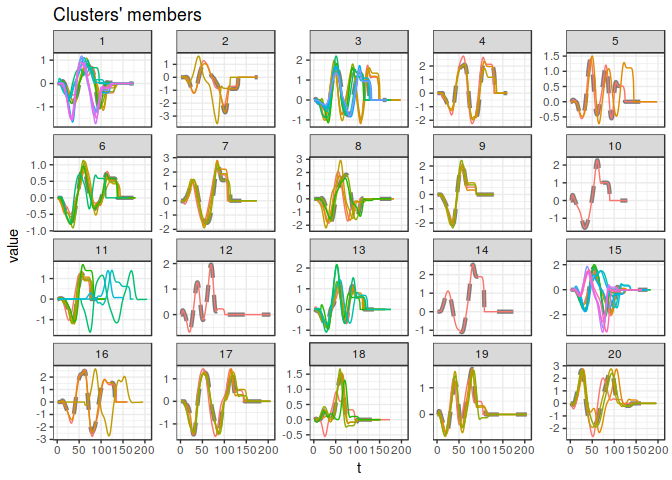
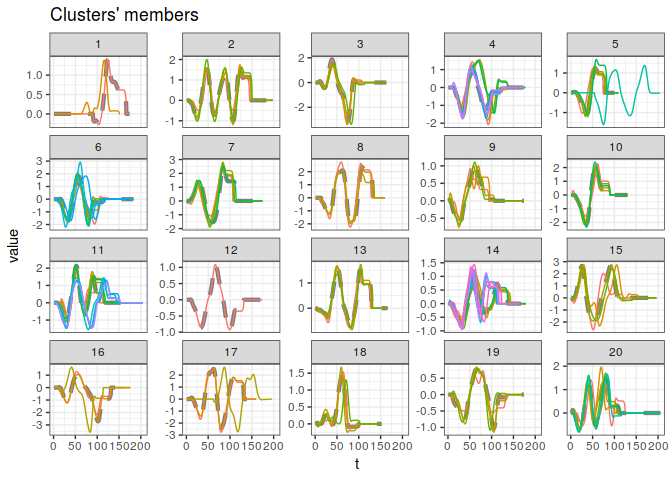
Re-knit README
Previous variant was deprecated.

Changed region(s): [[0.0312, 0.0, 1.0, 0.9688]]

diff --git a/README.md b/README.md
@@ -1,14 +1,14 @@
 <!-- README.md is generated from README.Rmd. Please edit that file -->
+
 [![CRAN\_Status\_Badge](http://www.r-pkg.org/badges/version/dtwclust)](https://cran.r-project.org/package=dtwclust)
 [![Travis-CI Build
 Status](https://travis-ci.org/asardaes/dtwclust.svg?branch=master)](https://travis-ci.org/asardaes/dtwclust)
 [![AppVeyor Build
 Status](https://ci.appveyor.com/api/projects/status/github/asardaes/dtwclust?branch=master&svg=true)](https://ci.appveyor.com/project/asardaes/dtwclust)
 [![codecov](https://codecov.io/gh/asardaes/dtwclust/branch/master/graph/badge.svg)](https://codecov.io/gh/asardaes/dtwclust)
-[![Downloads](http://cranlogs.r-pkg.org/badges/dtwclust)](http://cranlogs.r-pkg.org/badges/dtwclust)
+<http://cranlogs.r-pkg.org/badges/dtwclust>
 
-Time Series Clustering Along with Optimizations for the Dynamic Time Warping (DTW) Distance
-===========================================================================================
+# Time Series Clustering Along with Optimizations for the Dynamic Time Warping (DTW) Distance
 
 Time series clustering with a wide variety of strategies and a series of
 optimizations specific to the Dynamic Time Warping (DTW) distance and
@@ -27,39 +27,37 @@ DTW.
 
 For more information:
 
--   [Vignette with
+  - [Vignette with
     theory](https://cran.r-project.org/web/packages/dtwclust/vignettes/dtwclust.pdf)
     (with examples in the appendices)
--   [Timing
+  - [Timing
     experiments](https://cran.r-project.org/web/packages/dtwclust/vignettes/timing-experiments.html)
--   [Parallelization
+  - [Parallelization
     considerations](https://cran.r-project.org/web/packages/dtwclust/vignettes/parallelization-considerations.html)
--   [Functions’
+  - [Functions’
     documentation](https://cran.r-project.org/web/packages/dtwclust/dtwclust.pdf)
--   [Sample shiny
+  - [Sample shiny
     app](https://asardaes.shinyapps.io/dtwclust-tsclust-interactive/)
--   [CRAN’s time series
+  - [CRAN’s time series
     view](https://cran.r-project.org/web/views/TimeSeries.html)
 
-Implementations
----------------
+## Implementations
 
--   Partitional, hierarchical and fuzzy clustering
-    -   k-Shape clustering
-        -   Shape-based distance
-        -   Shape extraction for time series
-    -   TADPole clustering
--   An optimized version of DTW
--   Keogh’s and Lemire’s DTW lower bounds
--   Global alignment kernel (GAK) distance
--   DTW Barycenter Averaging
--   Soft-DTW (distance and centroid)
--   Some multivariate support (GAK, DTW and soft-DTW)
--   Cluster validity indices (crisp and fuzzy, internal and external)
--   Parallelization for most functions
+  - Partitional, hierarchical and fuzzy clustering
+      - k-Shape clustering
+          - Shape-based distance
+          - Shape extraction for time series
+      - TADPole clustering
+  - An optimized version of DTW
+  - Keogh’s and Lemire’s DTW lower bounds
+  - Global alignment kernel (GAK) distance
+  - DTW Barycenter Averaging
+  - Soft-DTW (distance and centroid)
+  - Some multivariate support (GAK, DTW and soft-DTW)
+  - Cluster validity indices (crisp and fuzzy, internal and external)
+  - Parallelization for most functions
 
-Installation
-------------
+## Installation
 
 The latest version from CRAN can be installed with
 `install.packages("dtwclust")`.
@@ -78,8 +76,7 @@ If you’re wondering about which version to install, take a look at the
 integration builds to make sure everything is working, but do note that
 they tend to fail for reasons unrelated to the package’s functionality.
 
-License
--------
+## License
 
 GNU General Public License v3.0. See [license](LICENSE) and
 [copyrights](inst/COPYRIGHTS).
@@ -87,8 +84,7 @@ GNU General Public License v3.0. See [license](LICENSE) and
 This software package was developed independently of any organization or
 institution that is or has been associated with the author.
 
-Examples
---------
+## Examples
 
 ``` r
 # Load series
@@ -105,19 +101,16 @@ pc <- tsclust(CharTraj, type = "partitional", k = 20L,
 #> 
 #>  Precomputing distance matrix...
 #> 
-#> Iteration 1: Changes / Distsum = 100 / 1665.433
-#> Iteration 2: Changes / Distsum = 19 / 1433.538
-#> Iteration 3: Changes / Distsum = 3 / 1417.581
-#> Iteration 4: Changes / Distsum = 5 / 1360.806
-#> Iteration 5: Changes / Distsum = 2 / 1358.508
-#> Iteration 6: Changes / Distsum = 1 / 1347.486
-#> Iteration 7: Changes / Distsum = 0 / 1346.886
+#> Iteration 1: Changes / Distsum = 100 / 1361.256
+#> Iteration 2: Changes / Distsum = 8 / 1101.633
+#> Iteration 3: Changes / Distsum = 2 / 1036.096
+#> Iteration 4: Changes / Distsum = 0 / 1031.353
 #> 
-#>  Elapsed time is 0.445 seconds.
+#>  Elapsed time is 0.412 seconds.
 plot(pc)
 ```
 
-![](README-partitional-1.png)
+![](README-partitional-1.png)<!-- -->
 
 ### Hierarchical
 
@@ -130,11 +123,11 @@ hc <- tsclust(CharTraj, type = "hierarchical", k = 20L,
 #> Performing hierarchical clustering...
 #> Extracting centroids...
 #> 
-#>  Elapsed time is 0.164 seconds.
+#>  Elapsed time is 0.147 seconds.
 plot(hc)
 ```
 
-![](README-hierarchical-1.png)
+![](README-hierarchical-1.png)<!-- -->
 
 ### Fuzzy
 
@@ -155,7 +148,7 @@ fc
 #> 
 #> Time required for analysis:
 #>    user  system elapsed 
-#>   0.105   0.000   0.107 
+#>    0.03    0.00    0.03 
 #> 
 #> Head of fuzzy memberships:
 #> 
@@ -177,4 +170,4 @@ mvc <- tsclust(CharTrajMV[1L:20L], k = 4L, distance = "gak", seed = 390L)
 plot(mvc, labels = list(nudge_x = -10, nudge_y = 1))
 ```
 
-![](README-multivariate-1.png)
+![](README-multivariate-1.png)<!-- -->
